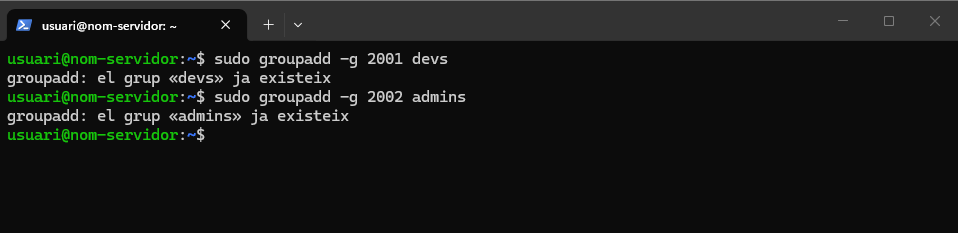
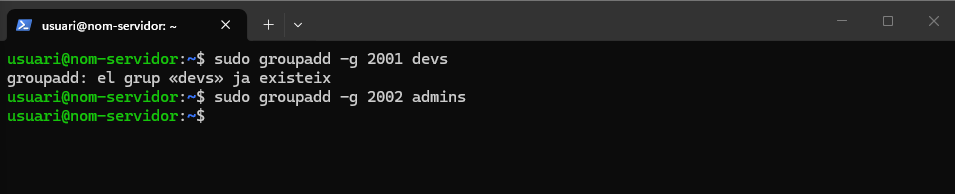
dfsd

diff --git a/AA1-NFS.md b/AA1-NFS.md
@@ -193,7 +193,7 @@ sudo groupadd -g 2002 admins
 
 ![groupadd al servidor](images/f2-01-groupadd-servidor.png)
 
-La comanda crea un grup amb un GID concret. Al servidor surt que els dos grups ja existeixen, perquè venien d'una activitat anterior (vegeu [Incidències i decisions](#incidències-i-decisions)).
+La comanda crea un grup amb un GID concret. Només el grup `devs` ja existia d'una activitat anterior (vegeu [Incidències i decisions](#incidències-i-decisions)). El grup `admins` es crea correctament.
 
 ### 2.2 Crear els usuaris al servidor
 
@@ -204,7 +204,7 @@ sudo useradd -m -u 3002 -g admins -s /bin/bash admin01
 
 ![useradd al servidor](images/f2-02-useradd-servidor.png)
 
-`useradd` crea l'usuari amb el seu UID, el grup principal i la shell. Al servidor els usuaris també ja existien.
+`useradd` crea l'usuari amb el seu UID, el grup principal i la shell. `dev01` i `admin01` es creen correctament, sense errors.
 
 ### 2.3 Contrasenyes al servidor
 
